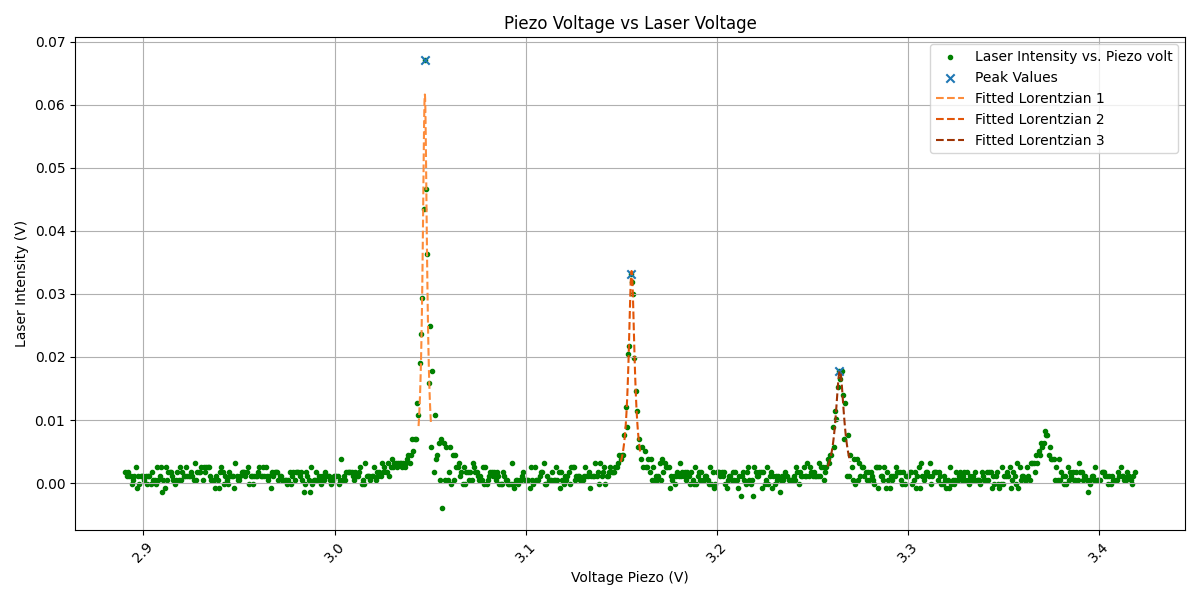
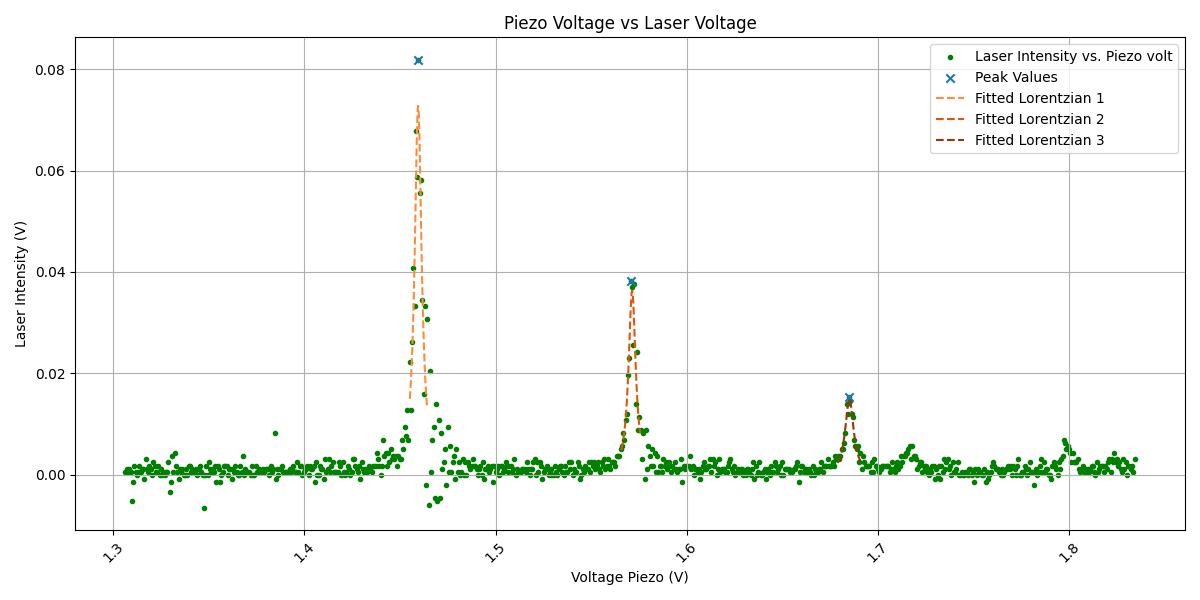
modify closeup

diff --git a/non_conf.py b/non_conf.py
@@ -14,6 +14,10 @@ title = 'calib00001'
 path = f'data_non_confocal/clean_data/{title}.csv'
 os.makedirs(f"data_non_confocal/figures/fsr", exist_ok=True)
 
+# find_peaks parameters
+min_height = 0.01
+min_distance = 100
+
 #####################################################################################################
 
 '''read data'''
@@ -27,10 +31,10 @@ volt_piezo = data['volt_piezo'].to_numpy()
 
 # find peaks and widths with just the find_peak function (only for plotting)
 xpeaks, ypeaks, peak_widths, indices = fn.peaks(
-    volt_piezo, transmission, 0.01, 100, True)
+    volt_piezo, transmission, min_height, min_distance, True)
 
 # find peaks and widths fitting lorentzians
-lor, cov = fp.fit_peaks(volt_piezo, transmission, 0.01, 100)
+lor, cov = fp.fit_peaks(volt_piezo, transmission, min_height, min_distance)
 
 x0_list = []
 A_list = []
@@ -58,14 +62,14 @@ fn.plot_piezo_laser_fit(volt_piezo, transmission, file_name=f'data_non_confocal/
                         x0=x0_list, gamma=gamma_list, xpeaks=xpeaks, ypeaks=ypeaks, width=peak_widths, save=True)
 
 # zoomed picture
-vp_z = volt_piezo[indices[4]-400:indices[4]+400]
-tr_z = transmission[indices[4]-400:indices[4]+400]
-a_z = A_list[3:6]
-x0_z = x0_list[3:6]
-g_z = gamma_list[3:6]
-x_z = xpeaks[3:6]
-y_z = ypeaks[3:6]
-w_z = peak_widths[3:6]
+vp_z = volt_piezo[indices[1]-400:indices[1]+400]
+tr_z = transmission[indices[1]-400:indices[1]+400]
+a_z = A_list[0:3]
+x0_z = x0_list[0:3]
+g_z = gamma_list[0:3]
+x_z = xpeaks[0:3]
+y_z = ypeaks[0:3]
+w_z = peak_widths[0:3]
 
 fn.plot_piezo_laser_fit(vp_z, tr_z, file_name=f'data_non_confocal/figures/fsr/piezo_peaks_closeup_{title}.png', A=a_z,
                         x0=x0_z, gamma=g_z, xpeaks=x_z, ypeaks=y_z, width=w_z, save=True)
